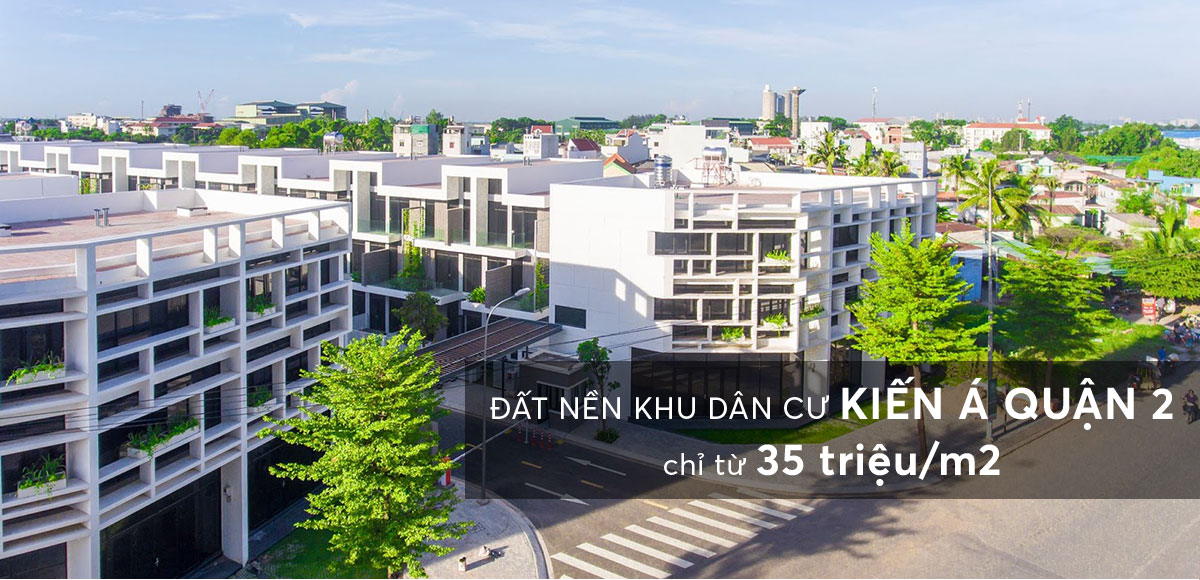
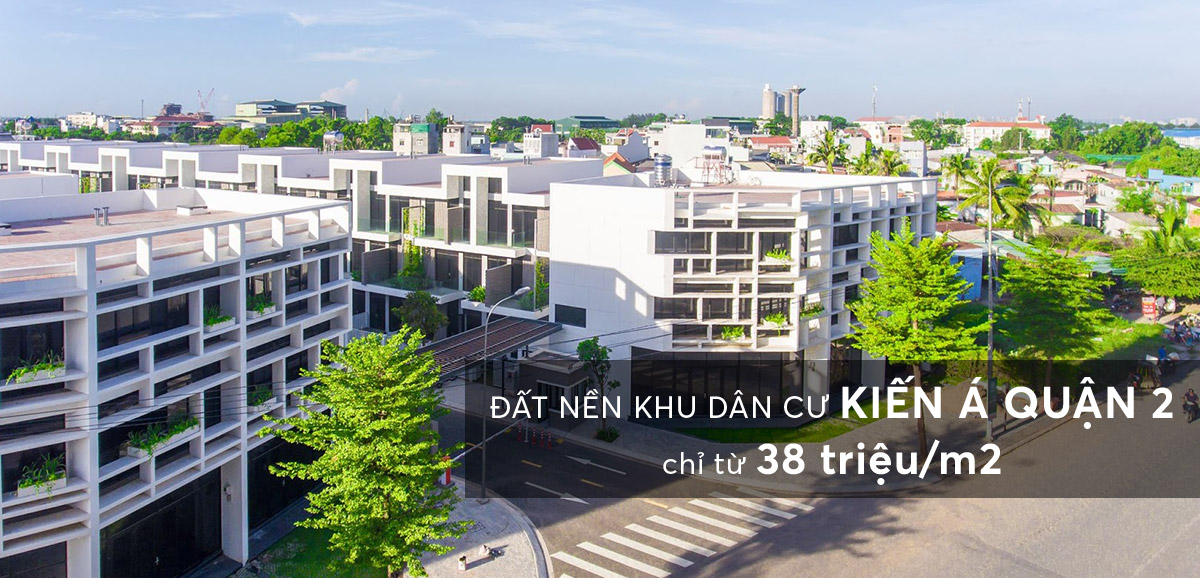
Update
Update

diff --git a/kiena/index.html b/kiena/index.html
@@ -56,7 +56,7 @@
                         <ul>
                             <li>
                                 <div class="icon"><img src="img/i1.jpg"></div>
-                                <a href="javascript:void(0);" data-image="img/1.jpg" class="section5Desc" rel="section5Desc1">Giá bán: <strong>cạnh tranh tại Quận 2</strong> và các khu vực lân cận: chỉ từ <strong>35 triệu đồng/m²</strong></a>
+                                <a href="javascript:void(0);" data-image="img/1.jpg" class="section5Desc" rel="section5Desc1">Giá bán: <strong>cạnh tranh tại Quận 2</strong> và các khu vực lân cận: chỉ từ <strong>38 triệu đồng/m²</strong></a>
                             </li>
                             <li><div class="icon"><img src="img/i2.jpg"></div><a href="javascript:void(0);" data-image="img/2.jpg" class="section5Desc" rel="section5Desc2">Vị trí: thuộc khu đô thị Cát Lái, nơi có biên độ tăng giá phân khúc đất nền đạt mức <strong>40%/NĂM</strong></a></li>
                             <li><div class="icon"><img src="img/i3.jpg"></div><a href="javascript:void(0);" data-image="img/3.jpg" class="section5Desc" rel="section5Desc3">Niềm tin/Sự an tâm: Uy tín <strong>Kiến Á</strong></a></li>
